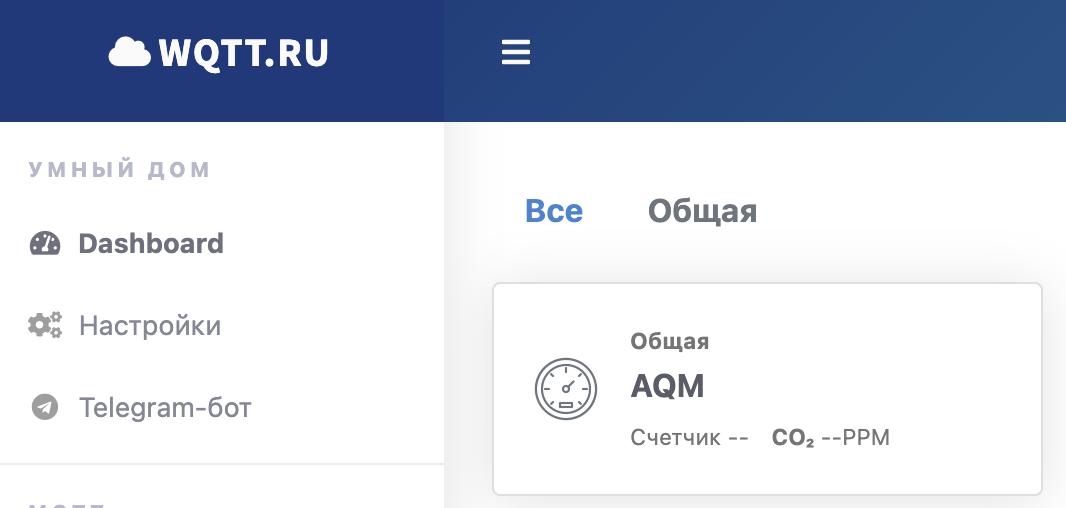
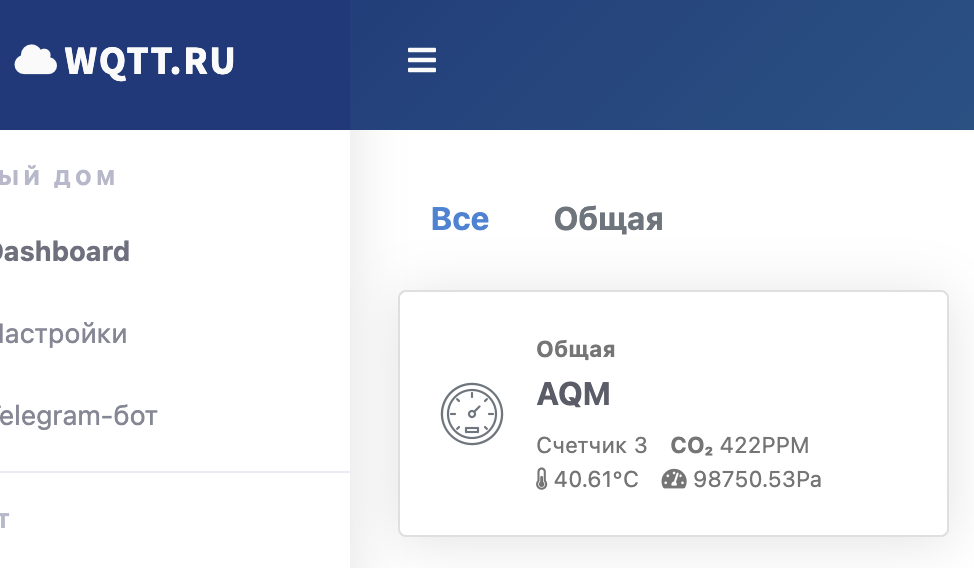
chore: update user manual

diff --git a/docs/en/UserManual.md b/docs/en/UserManual.md
@@ -17,18 +17,19 @@
 </p>
 
 ## Introduction  
-Air Quality Monitor (AQM) is an IoT (Internet of Things) device designed to measure indoor CO₂ levels and transmit real-time data visually via an RGB LED and remotely to Yandex via MQTT.  
+Air Quality Monitor (AQM) is an IoT (Internet of Things) device designed to measure indoor CO₂/TVOC levels also temperature/pressure/humidity and transmit real-time data visually via an RGB LED and remotely to Yandex (integrated using wqtt.ru) via MQTT.  
 
 ## Device Overview  
 ### Components  
 1. **Front Panel**:  
    - 1.28" IPS Round Display  
 2. **Rear Panel**:  
-   - Micro-USB Port (for power and firmware updates)  
+   - USB Type-C Port (for power and firmware updates)  
 3. **Internal Components**:  
-   - CO₂ Sensor (CCS811)  
-   - Microcontroller (ESP32-based)  
-   - RGB Indicator  
+   - CO₂ Sensor (CCS811)
+   - Temperature/Pressure/Humidity Sensor (BME280)  
+   - Microcontroller (ESP32 Live Mini)  
+   - RGB Indicator (WS2812B)  
 
 ## Getting Started  
 ### Installation  
@@ -36,10 +37,12 @@ Air Quality Monitor (AQM) is an IoT (Internet of Things) device designed to meas
 2. Ensure no obstructions block ventilation holes.  
 
 ### First Power-On  
-1. Connect the Micro-USB cable to a 5V/1A power source and the device.  
+1. Connect usb cable to a 5V/1A power source and the device.  
 2. The screen will display sequentially:  
-    - Step 1: Wi-Fi Status (see [Connecting to Wi-Fi](#connecting-to-wi-fi))  
-    - Step 2: CO₂ Initialization
+    - Step 1: CO₂ meter
+    - Step 2: Admin panel address
+    - Step 3: Wi-Fi Status (see [Connecting to Wi-Fi](#connecting-to-wi-fi))  
+    - Step 4: MQTT Status (see [MQTT Configuration](#mqtt-configuration))
       
 <p style="text-align:center">
   <img src="../images/first_start.jpg" width="250">
@@ -55,17 +58,11 @@ Air Quality Monitor (AQM) is an IoT (Internet of Things) device designed to meas
 </p> 
 
 2. Open a web browser and navigate to the address shown on the display (usually `http://192.168.4.1`; actual address may vary).
-
-<p style="text-align:center">
-  <img src="../images/web_ui_main_menu_local.jpg" width="250">
-  <h5 style="text-align:center"></h5>
-</p> 
-
 3. Select the **WIFI** menu item, enter your Wi-Fi network credentials (name and password), and click **Save**.  
 **Note**: After saving, the device will reboot and attempt to connect. Connection status updates will appear within seconds.
 
 <p style="text-align:center">
-  <img src="../images/web_ui_wifi_menu.jpg" width="250">
+  <img src="../images/web_ui_wifi_menu.png" width="250">
   <h5 style="text-align:center"></h5>
 </p>
 
@@ -76,9 +73,9 @@ Air Quality Monitor (AQM) is an IoT (Internet of Things) device designed to meas
 | **CO₂ Meter**             | Visual gradient with color zones: green, yellow, orange, red               |
 | **Current CO₂ Value**     | Current eCO₂ value (e.g., "850.0"). Min/max display values: 400.0 / 1500.0 |
 | **Web Panel Link**        | URL to the web panel (e.g., `http://192.168.1.100`)                       |
-| **Network Status**        | Internet connection status (green = connected, red = disconnected)        |
+| **Network Status**        | Internet and broker connection statuses (green = connected, red = disconnected)        |
 | **Calibration Status**    | Teal "CALIBRATION" text during calibration                                |
-| **Firmware Version**      | Current firmware version (e.g., "v1.0.0")                                |
+| **Firmware Version**      | Current firmware version with notification (e.g., "v1.0.0")                                |
 
 ### Web Panel  
 Accessible at `http://[device-address]`, includes:  
@@ -86,39 +83,41 @@ Accessible at `http://[device-address]`, includes:
    - SSID and password settings.
 
 <p style="text-align:center">
-  <img src="../images/web_ui_wifi_menu.jpg" width="250">
+  <img src="../images/web_ui_wifi_menu.png" width="250">
   <h5 style="text-align:center"></h5>
 </p>  
 
 2. **MQTT**:  
     - **Enable**: Toggle message publishing.  
-    - **Host**: Server IP/URL.  
+    - **Server**: Server IP/URL.  
     - **Port**: Server port.  
     - **Username/Password**: MQTT credentials.  
     - **Device ID**: Unique server identifier and topic prefix.  
 
 <p style="text-align:center">
-  <img src="../images/web_ui_mqtt_menu.jpg" width="250">
+  <img src="../images/web_ui_mqtt_menu.png" width="250">
   <h5 style="text-align:center"></h5>
 </p>  
 
 3. **CO₂**:  
    - **Alarm value**: Set warning thresholds.  
    - **Scale type**: Choose DEFAULT (4-color) or EASY (3-color) gradient.  
-   - **Calibration**: Start/stop calibration buttons.  
+   - **Calibration**: Run/stop calibration buttons.  
 
 <p style="text-align:center">
-  <img src="../images/web_ui_co2_menu.jpg" width="250">
+  <img src="../images/web_ui_co2_menu.png" width="250">
   <h5 style="text-align:center"></h5>
 </p>  
 
-4. **System**:  
+4. **System**: 
+   - **RGB Enabled**: Toggle RGB led. 
    - **Use dark theme**: Toggle light/dark mode.  
-   - **Log**: Set logging level.  
-   - **Firmware update**: Upload and install new firmware. 
+   - **Log**: Set logging level.
+   - **Rotate display**: Change display orientation.  
+   - **Update firmware**: Upload and install new firmware. 
 
 <p style="text-align:center">
-  <img src="../images/web_ui_system_menu.jpg" width="250">
+  <img src="../images/web_ui_system_menu.png" width="250">
   <h5 style="text-align:center"></h5>
 </p>  
 
@@ -128,7 +127,7 @@ Accessible at `http://[device-address]`, includes:
 - Set a unique device ID to avoid topic conflicts. 
 
 <p style="text-align:center">
-  <img src="../images/web_ui_mqtt_menu.jpg" width="250">
+  <img src="../images/web_ui_mqtt_menu.png" width="250">
   <h5 style="text-align:center">MQTT broker settings</h5>
 </p>  
 
@@ -147,7 +146,7 @@ Accessible at `http://[device-address]`, includes:
 5. Enter a **Device name** (e.g., "AQM") and **Room name**.  
 6. Under **Advanced Settings**, select **Sensors > Add > Float**.  
 7. Choose **Type > Carbon Dioxide** and set **Topic** to `common/aqm/co2`.  
-8. Repeat step 6 for TVOC, setting the topic to `common/aqm/tvoc`.  
+8. Repeat step 6 for TVOC, temperature and pressure setting the topic to `common/aqm/tvoc`, `common/aqm/temp` and `common/aqm/pressure`.  
 **Note**: The prefix `common/aqm` corresponds to the **Device ID** specified in the MQTT settings.  
 
 <p style="text-align:center">
@@ -167,13 +166,47 @@ Accessible at `http://[device-address]`, includes:
 </p>  
 
 ### Yandex Smart Home Integration  
-1. Open the **Yandex Smart Home** app.  
-2. Go to **Smart Home Devices**.  
+1. Open the **Yandex Smart Home** app.
+
+<p style="text-align:center">
+  <img src="../images/ysh_empty.jpg" width="250">
+  <h5 style="text-align:center">Yandex Smart Home without device</h5>
+</p> 
+
+2. Go to **Smart Home Devices**.
+
+<p style="text-align:center">
+  <img src="../images/ysh_add_device.jpg" width="250">
+  <h5 style="text-align:center">Find wqtt.ru</h5>
+</p> 
+
 3. Search for **WQTT.RU** and click **Link to Yandex**.  
+
+<p style="text-align:center">
+  <img src="../images/ysh_wqtt.jpg" width="250">
+  <h5 style="text-align:center">wqtt.ru</h5>
+</p> 
+
 4. Log in with your [wqtt.ru](https://wqtt.ru) account credentials.  
 5. Click **Refresh Device List**; your **AQM** should appear.  
 6. Assign a unique Cyrillic name (e.g., "Датчик воздуха").  
+
+<p style="text-align:center">
+  <img src="../images/ysh_add_aqm.jpg" width="250">
+  <h5 style="text-align:center">Add AQM device and rename it</h5>
+</p> 
+
 7. Reboot the device. Data will sync within minutes. Configure scenarios like CO₂ level alerts.  
+
+<p style="text-align:center">
+  <img src="../images/ysh_aqm_data.jpg" width="250">
+  <h5 style="text-align:center">AQM in Yandex Smart Home</h5>
+</p> 
+
+<p style="text-align:center">
+  <img src="../images/ysh_aqm_plot.jpg" width="250">
+  <h5 style="text-align:center">AQM plot data</h5>
+</p>
 
 ### MQTT Testing (Without Sensor)  
 A sample Go script in `scripts/mqtt_tester` can publish random values to the topic.  
@@ -182,7 +215,7 @@ A sample Go script in `scripts/mqtt_tester` can publish random values to the top
 - Toggle theme under **System > Use dark theme**.  
 
 <p style="text-align:center">
-  <img src="../images/web_ui_system_menu.jpg" width="250">
+  <img src="../images/web_ui_system_menu.png" width="250">
   <h5 style="text-align:center">Theme toggle</h5>
 </p>  
 
@@ -204,9 +237,9 @@ A sample Go script in `scripts/mqtt_tester` can publish random values to the top
 ### Firmware Update  
 - Navigate to **System > Update firmware**.  
 - Wait for the device to reboot. The new firmware version will appear in the web panel header.  
-- Alternatively, download the firmware (in `bin` folder) and upload `firmware.bin` via **OTA** menu.  
+- Alternatively, download the firmware (from `releases` in `/bin` folder) and upload `firmware.bin` via **OTA** menu (looks like a cloud).  
 
 <p style="text-align:center">
-  <img src="../images/web_ui_maintenance.jpg" width="250">
+  <img src="../images/web_ui_maintenance.png" width="250">
   <h5 style="text-align:center">Maintenance menu (accessible via top-right icon)</h5>
 </p>  

diff --git a/README.md b/README.md
@@ -4,28 +4,29 @@
   <img src="./docs/images/showcase.jpg" width="250" title="showcase">
 </p>
 
-Air Quality Monitor based on ESP32 and CCS811 sensor
+Air Quality Monitor based on ESP32, CCS811 and BME280 sensors.
 
 ## Features
 
-1. Measures eCO₂ and TVOC levels;  
+1. Measures eCO₂/TVOC levels and temperature/pressure/humidity;  
 2. Displays CO₂ levels on a screen and via an RGB LED.
-3. Measures temperature and pressure;
-4. Publishes the data to MQTT topics;
-5. Alert via rgb;
-6. Support web ui.
+3. Publishes the data to MQTT topics;
+4. Alert via rgb;
+5. Support web ui;
+6. Support calibration;
+7. OTA updates.
 
 ## How to
 1. Please edit `.pio/libdeps/mhetesp32devkit/TFT_eSPI/User_Setup_Select.h` uncomment `#include <User_Setups/Setup200_GC9A01.h>` (see `src/configs/config.h`);
-2. Rename `src/configs/secrets.example.h` to `src/configs/secrets.h` and edit - use correct wi-fi and mqtt creds; 
+2. OPTIONAL. Rename `src/configs/secrets.example.h` to `src/configs/secrets.h` and edit - use correct wi-fi and mqtt creds; 
 3. Optional. Edit `src/configs/config.h`;
 4. Upload and enjoy!
 
 ## Links
 
 - [Manual](/docs/en/UserManual.md)
-- [Wiring Diagram](/resources/) 
-- [Source Code](/src/) 
+- [Wiring Diagram](/resources/air_quality_monitor_scheme.jpg) 
+- [Source Code](/src) 
 - [3D Printed Case](/resources/3dprint/)  
 
 > WARNING! Reduce the model by 10 times before printing!
